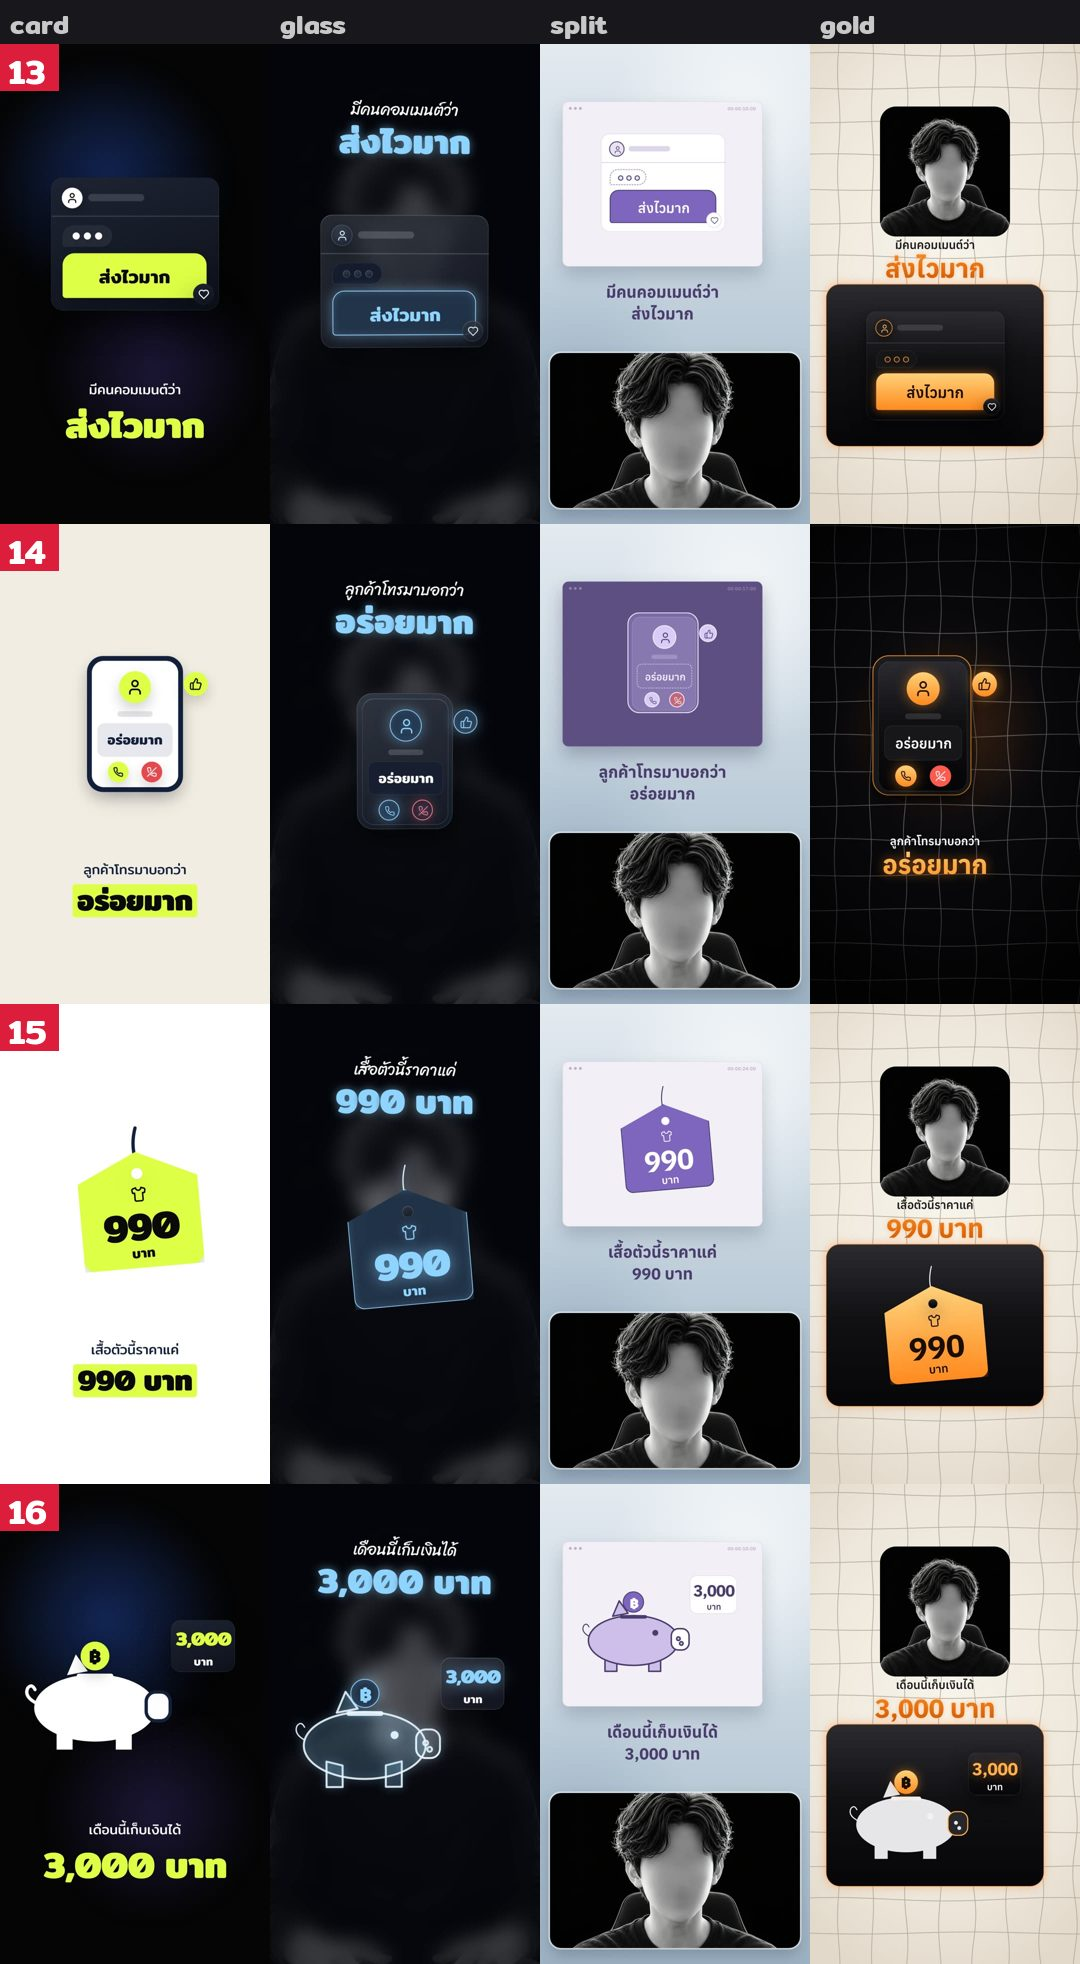
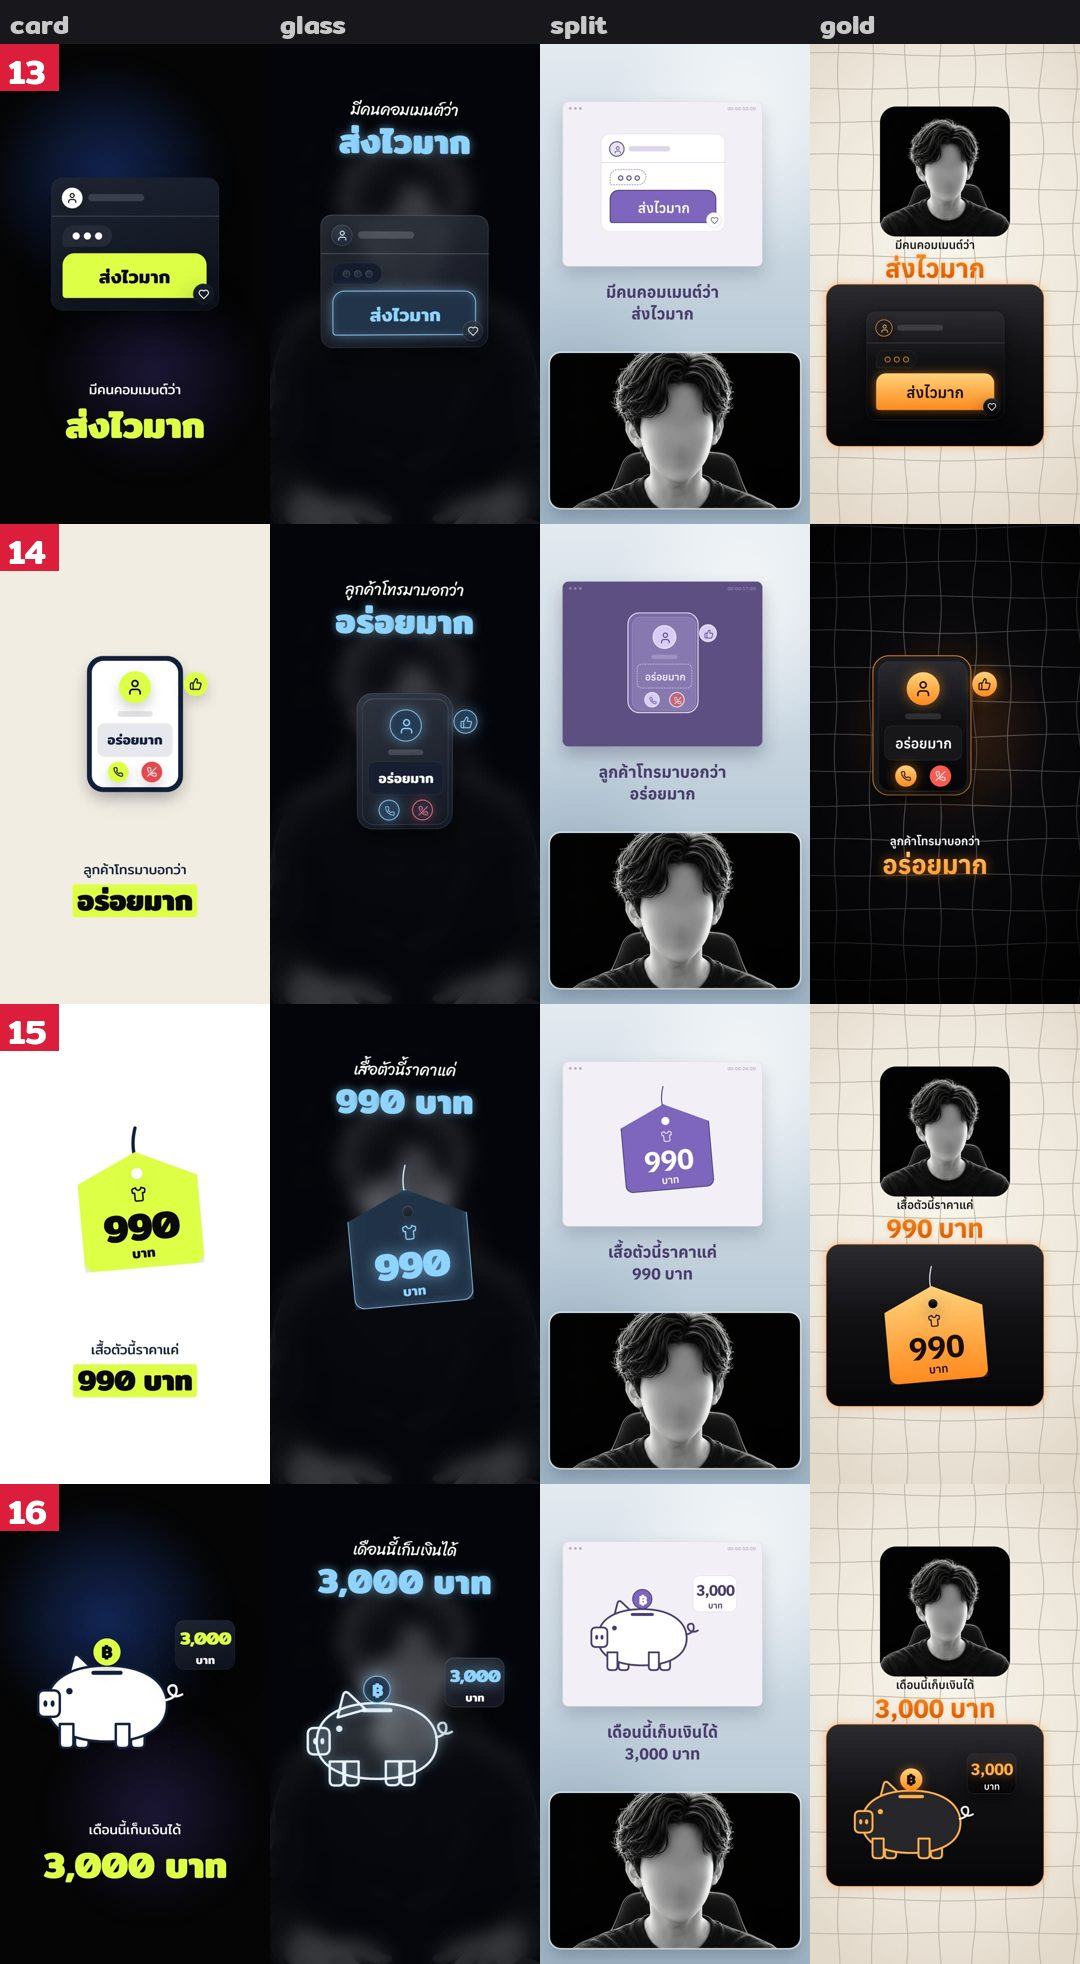
Round 11 sketch 16: the piggy bank drawn after Friend's ref (side view, snout, ear, legs, curly tail, slot and coin)
Claude-Session: https://claude.ai/code/session_014abtgvBrLzxzLxndx9vzJG

diff --git a/cutpack/DECISIONS.md b/cutpack/DECISIONS.md
@@ -200,6 +200,7 @@
   - **Friend 2026-11-11 ดูหน้า 26 (https://claude.ai/artifact/95XDSbVah2cE56noFkfinW): "Animation มันดูไม่มีอะไรเลยอะ ไม่ชอบเลยครับ"** → ขอบเขต: การเคลื่อนไหวของรอบที่ 11 ทั้ง 22 ร่าง (หน้าตาภาพไม่ได้ติ) · ต้นเหตุที่ Claude เห็น: แต่ละร่างแค่ลอยเข้ามาแล้วเปลี่ยนสีตรงคำสำคัญ ไม่มีกลไกทำงานแล้วจบที่ผลลัพธ์แบบรอบ 1–10 · รอ Friend ยืนยันแนวทางแก้ก่อนลงมือ (LESSONS 3) · Claude เสนอ: ทุกร่างมีกลไกขยับ 3–4 จังหวะตามคำพูดแล้วจบที่ผลลัพธ์ตรงคำสำคัญ (ป้ายราคาแกว่งเข้า ตัวเลขนับขึ้น · วงเล็งส่ายหาแล้วพุ่งล็อก · กล่องหล่นซ้อนทีละกล่อง) หน้าตาภาพคงเดิม ทำ 2–3 ร่างให้ดูก่อน **Friend: "โอเค"** → ทำตัวอย่าง `pricetag` `aim` `boxes` ก่อนแก้ทั้ง 22 ร่าง
   - **ยกเลิกชุด skill ทั้งหมด (Friend 2026-11-11 หลังดูคลิปตัวอย่าง 3 ร่าง: "ผมชอบรอบที่ 1-10 มากกว่าอะ ไม่ต้องใช้ skill นี้วาดแล้ว กลับไปใช้ลายเส้นแบบเดิม และออกแบบใหม่ทั้งหมด (ไม่เอาคน)")** → ขอบเขต: รอบที่ 11 ทั้งรอบ · 22 ร่างชุด glow-line-motion เอาออกจากระบบแล้ว (`scenes/lego_r9d.js` → `sketches/archive/r11_skill_scenes.js`) ระบบกลับเป็น 21 หมวด 150 ร่าง · ออกแบบรอบที่ 11 ใหม่ทั้งหมดด้วยหน้าตาแบบรอบ 1–10 (การ์ดมน ไอคอนจากใบประกอบ สีเน้น ตัวหนังสือชัด ของในชีวิตประจำวันที่มีกลไกทำงานจนจบที่ผลลัพธ์) · ไม่มีภาพคน (ขอบเขต: ไอเดียรอบที่ 11 ชุดใหม่ ยังไม่ได้ถามว่าใช้กับรอบต่อไปไหม LESSONS 44) · ไอเดียที่ทิ้งไปแล้วในรอบนี้ (เครื่องปิ้งขนมปัง หัว USB ประตูกั้น หินตกน้ำ ไฟฉาย เครื่องพิมพ์ดีด โทรศัพท์บ้าน ป้ายรอรับ มือถือถ่ายรูป ลูกตุ้มนิวตัน คิวหน้าร้าน กล่องหยอดรูปทรง เซลฟี่ จับมือ ป้ายริมทาง) ไม่เสนอกลับมา
   - **ไอเดียรอบที่ 11 ชุดใหม่ 20 ร่าง (หน้าตาแบบรอบ 1–10):** คน = บัตรเชิญ `invite` · ช่องค้นหากับตัวกรอง `filter` / เคล็ดลับ = แว่นขยาย `magnify` · กุญแจไขแม่กุญแจ `unlock` / ความสัมพันธ์ = การ์ดคู่ A × B `cross` · ชนแก้ว `cheers` / สถานที่ = โปสการ์ด `postcard` · ปุ่มเช็กอิน `checkin` / เหตุกับผล = สามการ์ดต่อลูกศร `arrows` · แก้วน้ำเต็มจนล้น `overflow` / ถูกกับผิด = ควิซในแอป `quiz` · ครูตรวจกระดาษ `grade` / คำพูด = แชตกำลังพิมพ์ `typing` · สายเรียกเข้า `call` / ตัวเลขเด่น = ป้ายราคา `tag` · กระปุกออมสิน `piggy` / เพิ่ม-ลด = แบตเตอรี่ `battery` · กล่องซ้อน `stack` / ประโยคเด็ด = ปากกาไฮไลต์ `marker` · ป้ายผ้าคลี่ `banner` · Claude ถาม "ไม่เอาคน" รวมไอคอนคนไหม **Friend: "ไม่รวม icon"** → ไอคอนจากใบประกอบ (รวมไอคอนคน) ใช้ได้ ห้ามแค่ภาพวาดตัวคน · ทำภาพนิ่ง 4 สไตล์ต่อ
+  - **ภาพนิ่งชุดใหม่ 20 ร่างส่งแล้ว (`library/uni-test/round11n_sketches_1.jpg` … `_5.jpg`) Friend 2026-11-11 ส่ง ref "20 WAYS TO SIMPLIFY" (ช่อง 8 FINANCE หมูออมสิน): "วาดหมูตามนี้"** → ขอบเขต: ร่าง 16 กระปุกออมสิน `piggy` · วาดรูปหมูตาม ref (หันข้าง หันหน้าซ้าย จมูกกลมมีรูจมูกสองรู หูตั้ง ตา ขาสั้นสี่ขา หางขด ช่องหยอดบนหลัง เหรียญเหนือช่อง) สีและเส้นยังเป็นของแต่ละสไตล์ (ref = เนื้อหาของภาพ LESSONS 42)
 - **B14 ประโยคเด็ดมีภาพด้วย (Friend 2026-11-08: "ทำ B14 แบบมี motion graphics ในเลโก้เลยครับ"):** เดิมระบบเลโก้ตั้งให้ B14 เป็นตัวหนังสือล้วน (Claude ตั้งเอง ไม่ได้มาจาก Friend) ตอนนี้มีร่างเหมือนหมวดอื่น ใบประกอบช่องเดียว `idea {icon, label?}` (ใจความที่อยากให้จำ ป้าย 1–2 คำ) ประโยคอยู่ในซับเท่านั้น
 - **กฎการจัดวางและจังหวะของร่าง (Friend 2026-11-08 หลังดูรอบที่ 3):** ใช้กับทุกร่างต่อจากนี้ (1) ของที่เชื่อมสองสิ่ง (จุดความคิด เส้น ลูกศร) ต้องอยู่บนแนวตรงระหว่างสองสิ่งนั้นพอดี "ไอคอนมันต้องตรงกับจุดสิ" (2) แสง วงกระเพื่อม และคำ ที่เป็นของสิ่งที่กำลังเคลื่อน ต้องขึ้นหลังสิ่งนั้นมาถึงที่แล้ว "วงกลมขึ้นมาก่อนที่ไอคอนจะเลื่อนขึ้นไปได้ไง" (3) เครื่องหมายระหว่างสองสิ่ง (=, →) อยู่กึ่งกลางช่องว่างระหว่างสองสิ่ง (4) คำใต้ไอคอนอยู่กึ่งกลางไอคอน และคำของของในแถวเดียวกันอยู่บรรทัดเดียวกัน (คำกึ่งกลางใน kit ใช้กล่องกว้างจัดกลาง ไม่ใช้ transform ที่ท่าเข้าเขียนทับ) (5) คลื่นหรือวงกระเพื่อมรอบของชิ้นไหน ต้องเป็นทรงเดียวกับชิ้นนั้น (การ์ดสี่เหลี่ยมมุมมนก็เป็นสี่เหลี่ยมมุมมน ปุ่มก็ทรงปุ่ม ของกลมก็วงกลม) ออกจากขอบของชิ้นนั้นจากด้านหลัง ไม่ผ่านไอคอนหรือคำ และพุ่งออกเร็วแล้วจาง (Friend: "Effect วงกลมมันแปลกๆอะ" กับวงกลมที่วิ่งผ่านการ์ดพลิก) ใช้ `R1.ripple` วงกลม `R1.pulse` ใช้เฉพาะแรงกระแทกที่ไม่ใช่ของชิ้นไหน (โดมิโนล้มถึงพื้น ตราประทับลง แสงไฟเตือน) (6) ไอคอนที่เปลี่ยนเป็นสีเน้น (ติดไฟ) ต้องเห็นไอคอนตลอด ไม่จางไขว้จนไอคอนกลืนกับพื้น ใช้ `LG.lightUp` (การ์ดทึบโผล่กลางแล้วขยายทับ) ในร่างใหม่ทุกร่าง ร่างเก่าที่ใช้ `LG.light` คงไว้ (Friend 2026-11-08: ร่างเก่า "ตามนุษย์มองแทบไม่ทันครับ" แต่ "อันต่อๆไปที่จะทำในอนาคตก็แก้ปัญหานี้ด้วยนะ") (7) ของที่ซ้อนแทนของเดิม (ไอคอนติดไฟ คำตอบแทนฟองคำถาม) ต้องอยู่ตำแหน่งเดียวกัน ขนาดเดียวกัน และขยับพร้อมกันพอดี ของเดิมต้องไม่โผล่เป็นขอบ ถ้าของล่างลอยขึ้นลง ของบนต้องลอยเหมือนกัน หรือเอาของล่างออกเมื่อถูกบังหมดแล้ว (Friend 2026-11-08: "ไอคอนมันเหลื่อมๆนิดนึงเหมือนมันทิ้งขอบสีขาวไว้") (8) สัญลักษณ์สีแดง (ตราห้าม ป้ายเตือน กากบาท) ต้องไม่อยู่บนของที่เป็นสีแดง ของต้องเป็นสีปกติของร่าง ให้สัญลักษณ์เป็นสีแดงอย่างเดียว (Friend 2026-11-08: "สัญลักษณ์มันเป็นสีเดียวกับไอคอนซึ่งมันจะทำให้ไม่สวย") โค้ด: `calm()` ใน `scenes/cats.js` เปลี่ยนโทนแดงที่ AI ใส่ให้ของเป็นสีปกติ (`main`) ในหมวดที่ร่างมีสัญลักษณ์แดง (B03 B04 B07) (10) สีของทุกชิ้นต้องไม่กลืนกับพื้นข้างหลัง สีเดียวกันหรือคล้ายกันจนมองยากก็ไม่ได้ (Friend 2026-11-08: "ตอนออกแบบให้ดูเรื่องสีด้วยอย่าให้มันกลืนกัน สีที่มันคล้ายๆกันแล้วทำให้มองยากก็ไม่ได้เหมือนกัน") ตรวจด้วย `check_contrast.js` (11) ของโปร่งแสงที่ต่อกัน (ถนนที่ตัดกัน) ต้องเป็นเนื้อเดียว ไม่เห็นรอยซ้อน (Friend 2026-11-10: "ไม่อยากให้เห็นความทับซ้อนของเส้นถนนอะ ทำให้มันเป็นเนื้อเดียวกันได้ไหม") (12) ของที่แบ่งเป็นสองส่วน (รูปฉีก) ไม่มีเศษของอีกส่วนติดมาที่รอยแบ่ง (Friend 2026-11-10: "มันมีขอบสีขาวๆ ติดมานิดนึง") (13) ร่างเดียวกันต้องหน้าตาเหมือนกันทุกสไตล์ ลวดลายที่หายไปในบางสไตล์ใช้ไม่ได้ (Friend 2026-11-10: "ทำไมตะกร้ามันไม่เหมือนอีก 2 สไตล์") (14) ของที่วางบนของอีกชิ้นต้องสีไม่กลืนกันในทุกสไตล์ (Friend 2026-11-10: "สีไอคอนกับตะกร้ามันกลืนกัน") (15) เส้นวาดครั้งเดียว ไม่มีเส้นขอบซ้อนกันหลายชั้น โดยเฉพาะสไตล์กระจก (Friend 2026-11-10: "สไตล์ 2 ดูเรื่องเส้นด้วย") (9) ตาชั่ง: ฝั่งที่ชนะเป็นสีเน้น ฝั่งที่แพ้เป็นสีปกติ เมื่อ AI ไม่ได้กำหนดสีเอง (Friend 2026-11-08: "แก้ตราชั่ง" เดิมฝั่งซ้ายเป็นสีเน้นเสมอ)
 - **สไตล์แบ่งจอ จังหวะคนพูดย่อลงกรอบล่าง (Friend 2026-11-08: "แก้ไขจังหวะที่คลิปย่อลงมาด้านล่างหน่อยครับ"):** กรอบวิ่งตามขอบวิดีโอที่กำลังย่อ (ไม่รอที่จุดสุดท้ายแล้วตัดผ่านหน้า), หน้าต่างกับซับขึ้นหลังหน้าคนพูดลงพ้นตำแหน่งของมันแล้ว และหายก่อนคนพูดขยายกลับ ห้ามมีของทับหน้าระหว่างย่อหรือขยาย (`styles/split.js`)
